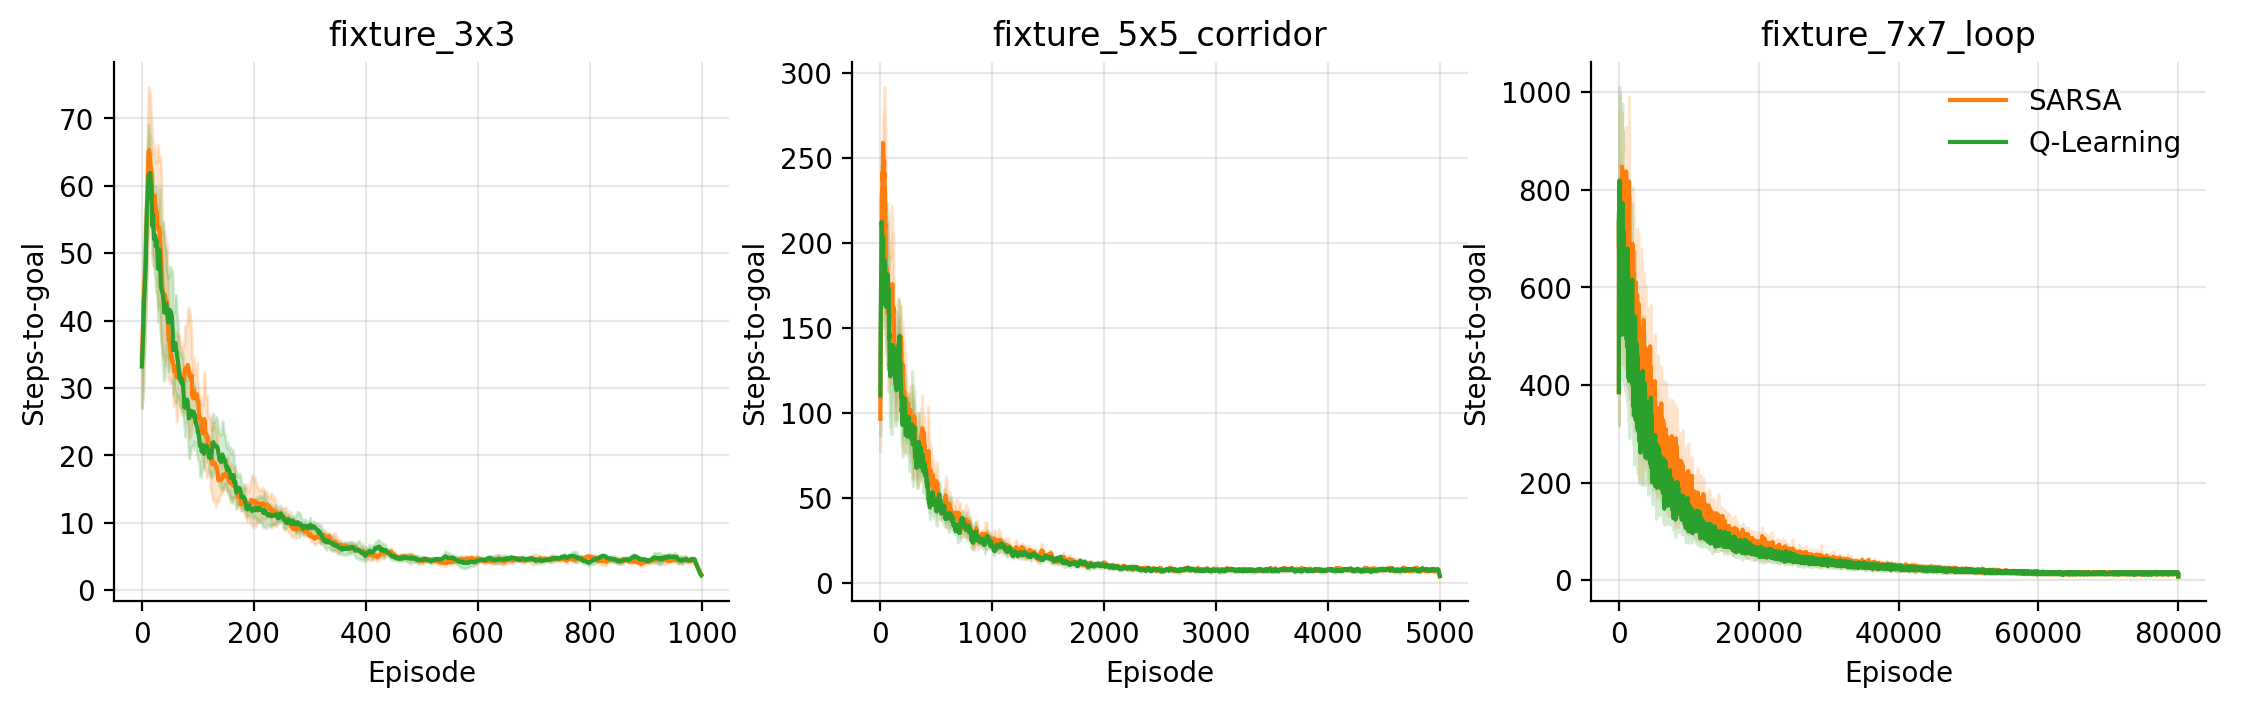
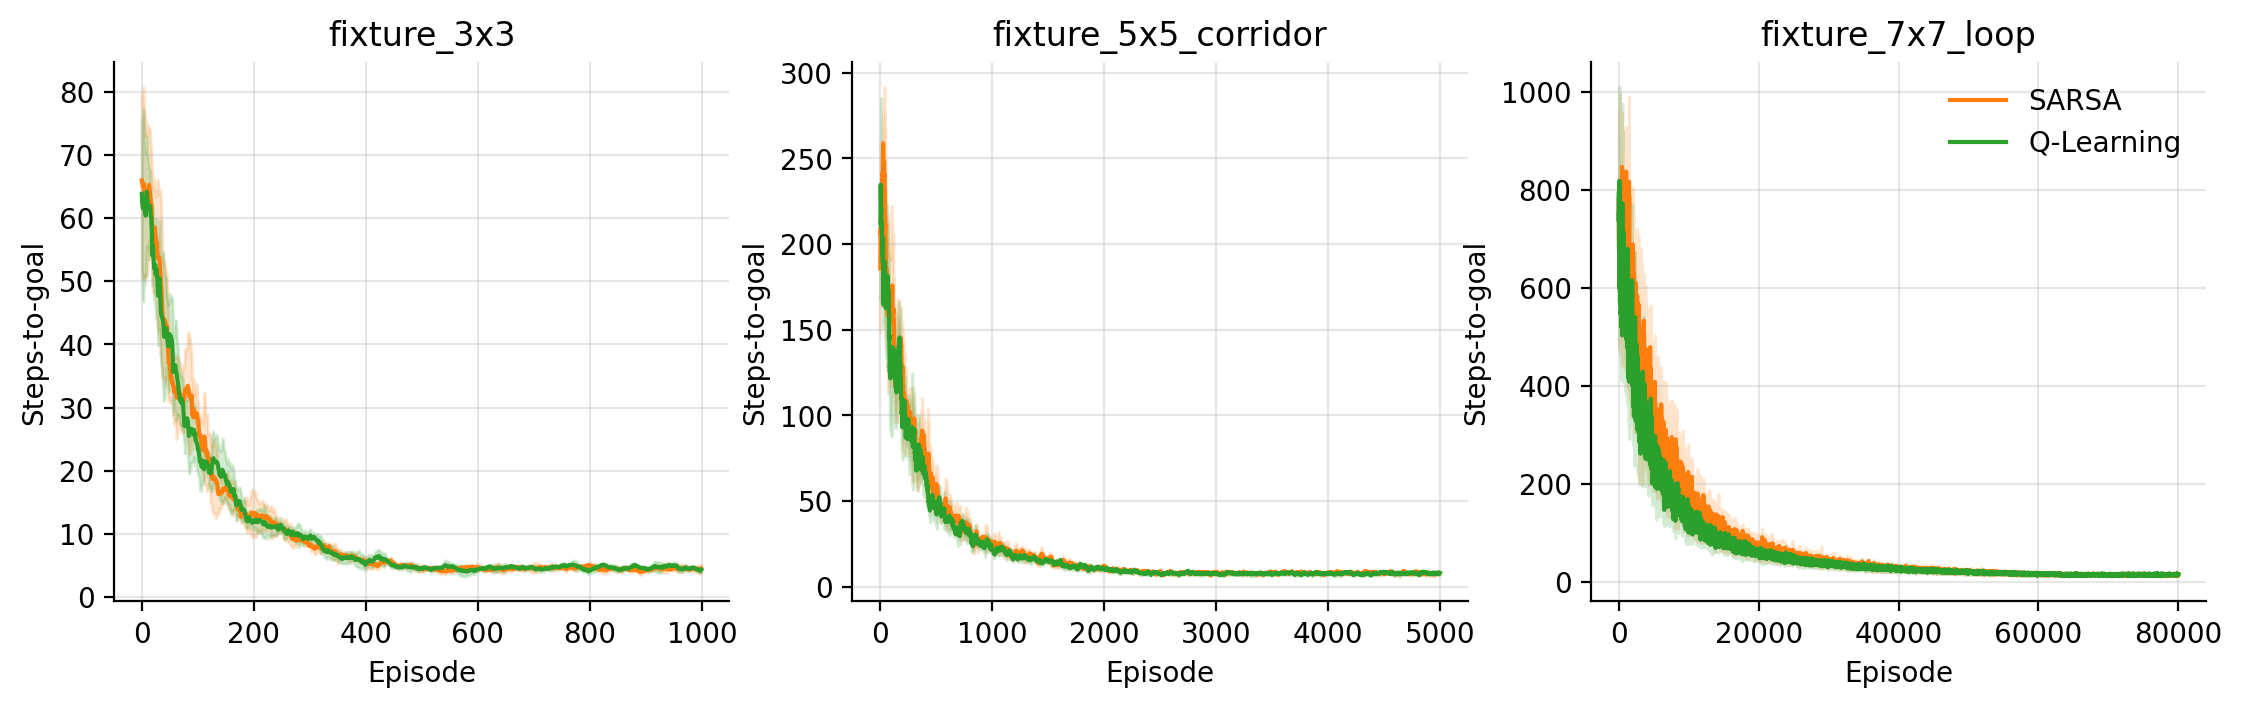
fix: improve smoothing function to avoid zero-padding bias in moving averages

diff --git a/src/maze_mdp/maze_mdp/analysis/plot_steps_curve.py b/src/maze_mdp/maze_mdp/analysis/plot_steps_curve.py
@@ -13,11 +13,26 @@ from maze_mdp.analysis.loaders import load_training_runs
 
 
 def _smooth(x: np.ndarray, window: int) -> np.ndarray:
-    """Centered moving average; falls through unchanged when ``window <= 1``."""
+    """Centered moving average without zero-padding at the boundaries.
+
+    ``np.convolve(..., mode='same')`` pads with zeros, which biases the
+    first ``window/2`` and last ``window/2`` smoothed samples toward 0 and
+    creates a spurious dip at the right edge of the curve. Here we
+    compute the rolling mean from a cumulative sum and divide by the
+    actual number of samples inside each window, so boundary points are
+    just shorter averages of the data that *does* exist.
+    """
     if window <= 1 or x.size < window:
         return x
-    kernel = np.ones(window) / window
-    return np.convolve(x, kernel, mode='same')
+    half = window // 2
+    cumsum = np.concatenate(([0.0], np.cumsum(x, dtype=np.float64)))
+    out = np.empty_like(x, dtype=np.float64)
+    n = x.size
+    for i in range(n):
+        lo = max(0, i - half)
+        hi = min(n, i + half + 1)
+        out[i] = (cumsum[hi] - cumsum[lo]) / (hi - lo)
+    return out
 
 
 def plot(input_dir: Path, output_dir: Path, smooth: int = 25) -> None: